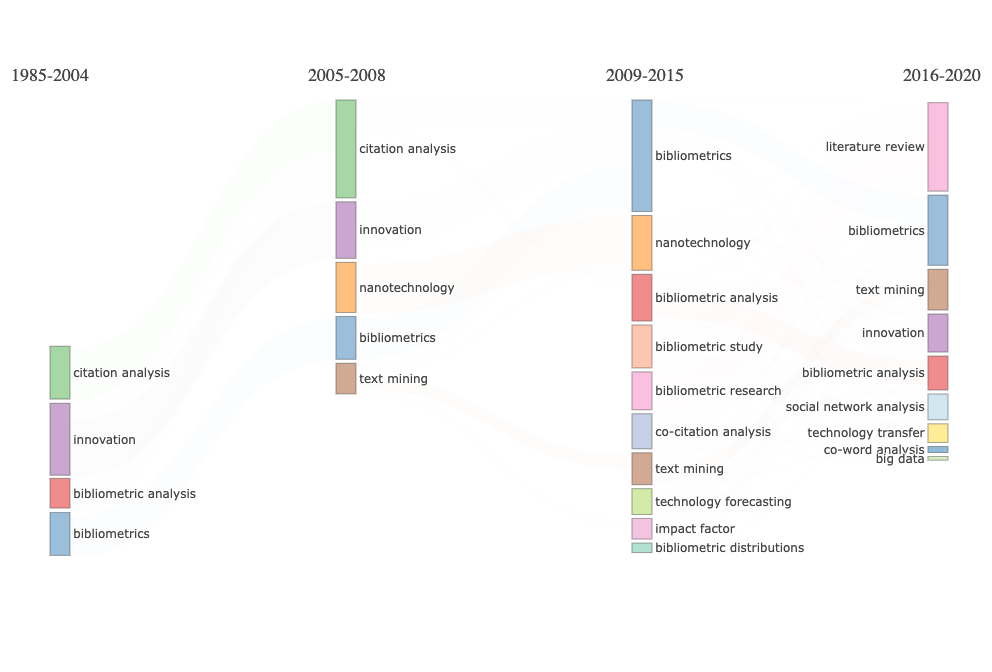
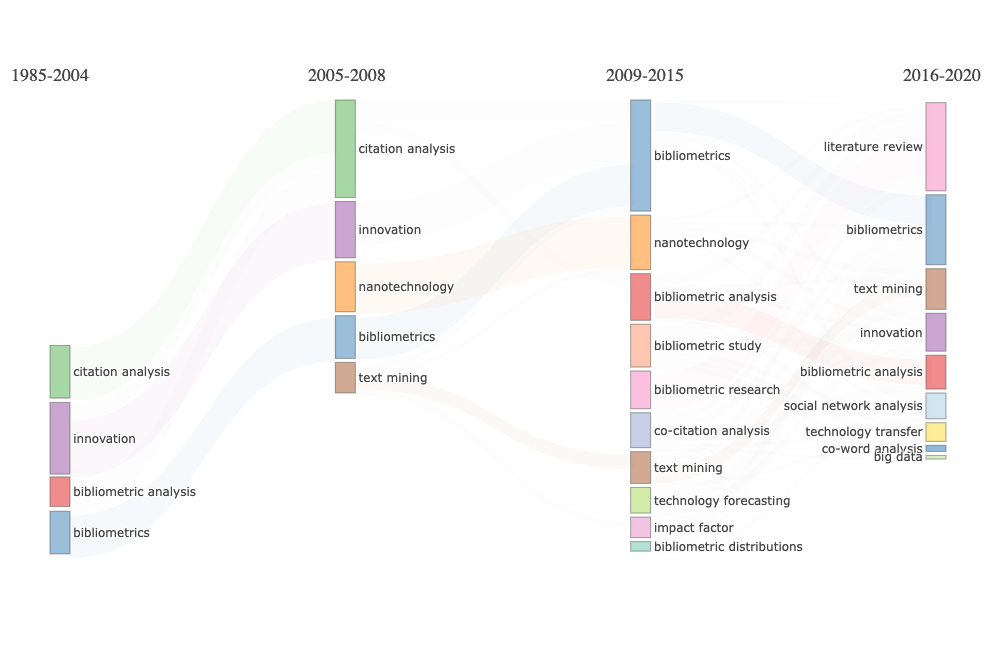
fix(authorBio): works from OpenAlex with a doi in primary_location
Since October 2026 OpenAlex also returns a `doi` inside the
primary_location of a work, and openalexR::oa_fetch() 3.1.1 (current
release, not fixed upstream) copies it next to the work's own `doi` when it
builds the tibble: every request for works failed with "Column name `doi`
must not be duplicated". authorBio() and get_authors_summary() stopped.

The internal oaFetch() fetches works as a list, drops the fields of
primary_location that repeat a field of the work, and converts the list
with openalexR::oa2df(), as oa_fetch() does; any other request is passed to
oa_fetch() unchanged. The downloads of convert2df() and Biblioshiny were not
affected (they parse the list themselves).

README.md is rendered in full again (it stopped at the authorBio()
example); the renumbered figure replaces README-unnamed-chunk-17-1.png.

diff --git a/NEWS.md b/NEWS.md
@@ -5,6 +5,7 @@
 - **`dominancePlot()` draws the authors' dominance ranking**: a new function that plots the output of `dominance()` as a quadrant scatter plot. Each author is placed by productivity (N. of articles) and Dominance Factor, with point size proportional to the multi-authored articles. The median productivity and DF = 0.5 split the authors into prolific leaders, leaders, prolific co-authors and co-authors. Authors that fall on the same point are drawn once, with their names stacked in one label; when two names would overlap, or a name would cover another bubble, only the author with the higher Dominance Factor is named. `dominance()` now also accepts the bibliographic data frame instead of a `biblioAnalysis()` result: it needs only the `AU` field, so on `management` it takes 0.01 s instead of the 2.1 s of `biblioAnalysis()`, and both inputs give `identical()` rankings. Biblioshiny has a new **Authors' Dominance** page in the Authors menu, with the plot (every name on hover), the table and the Info & References tab.
 
 ## Bug Fixes and Improvements
+- **`authorBio()` and `get_authors_summary()` work again with the current OpenAlex API**: since October 2026 OpenAlex also returns a `doi` inside the `primary_location` of a work, and `openalexR::oa_fetch()` (3.1.1, the current release) copies that field next to the work's own `doi` when it converts works to a tibble, so every request failed with *"Column name `doi` must not be duplicated"*. Works are now fetched as a list, the fields of `primary_location` that repeat a field of the work are dropped, and the list is converted by `openalexR::oa2df()` as `oa_fetch()` does; other requests are unchanged. The OpenAlex downloads of `convert2df()` and Biblioshiny were not affected: they read the list returned by OpenAlex with bibliometrix's own parser.
 - **`histPlot(label = "title")` no longer duplicates single-word titles** (#707): node labels split the title in two lines at `floor(length / 2)` words, so a one-word title was written twice (`"Alpha\nAlpha"`) and a missing one became `"NA\nNA"`. A one-word title now stays on one line and a missing or empty title is `"Not Available"`, as `label = "keywords"` and `"keywordsplus"` already did. The tooltips of the Historiograph in Biblioshiny had the same split and are fixed the same way. Labels of multi-word titles are unchanged. Reported and fixed by @GabrielBaiano.
 - **`couplingMap()` returns the modularity, and Biblioshiny shows it on the Coupling Map**: like `thematicMap()`, `couplingMap()` now returns `modularity`, the modularity (Q) of its community detection, also found in `net$modularity`. The Clusters table of the Coupling Map page shows it, as the co-occurrence, co-citation and collaboration networks, the Thematic Map and the Thematic Evolution already did.
 - **`bradford()` keeps a dominant source in Zone 1** (#703): when the core sources alone hold more than two thirds of the articles, the end of Zone 1 and the end of Zone 2 coincide, and the Zone 2 range `(zone1_end + 1):zone2_end` counted down, relabelling the core as Zone 2 and leaving Zone 1 empty. Zone 2 is now empty in that case, the Bradford multiplier is `NA` as for any empty zone, and the plot no longer draws the label of an empty zone on top of its neighbour. Zones of `management` and `scientometrics` compare `identical()` before and after. Reported by @GabrielBaiano.

diff --git a/README.md b/README.md
@@ -667,17 +667,17 @@ dplyr::glimpse(authorInfo)
 #> Columns: 26
 #> $ id                          <chr> "https://openalex.org/A5069892096"
 #> $ display_name                <chr> "Massimo Aria"
-#> $ display_name_alternatives   <list> <"Aria, M. Qasem", "Aria, Massimo", "M Aria", "M. Aria", "M. Qasem Aria", "MASSIMO…
+#> $ display_name_alternatives   <list> <"Aria M.", "Aria, Massimo", "M Aria", "M. Aria", "MASSIMO ARIA", "Massimo Aria">
 #> $ full_name                   <chr> "Massimo Aria"
-#> $ ids                         <list> <"https://openalex.org/A5069892096", "https://orcid.org/0000-0002-8517-9411">
+#> $ ids                         <list> <"https://openalex.org/A5069892096", "https://orcid.org/0000-0002-8517-9411", "htt…
 #> $ orcid                       <chr> "https://orcid.org/0000-0002-8517-9411"
-#> $ works_count                 <int> 237
-#> $ cited_by_count              <int> 20543
-#> $ counts_by_year              <list> [<data.frame[24 x 4]>]
-#> $ `2yr_mean_citedness`        <dbl> 3.77193
-#> $ h_index                     <int> 37
-#> $ i10_index                   <int> 99
-#> $ last_known_institutions     <list> [<data.frame[3 x 6]>]
+#> $ works_count                 <int> 241
+#> $ cited_by_count              <int> 21269
+#> $ counts_by_year              <list> [<data.frame[23 x 4]>]
+#> $ `2yr_mean_citedness`        <dbl> 3.984127
+#> $ h_index                     <int> 38
+#> $ i10_index                   <int> 102
+#> $ last_known_institutions     <list> [<data.frame[1 x 6]>]
 #> $ topics                      <list> [<tbl_df[20 x 5]>]
 #> $ works_api_url               <chr> "https://api.openalex.org/works?filter=author.id:A5069892096"
 #> $ author_position_in_paper    <dbl> 1
@@ -690,7 +690,7 @@ dplyr::glimpse(authorInfo)
 #> $ affiliation_raw             <chr> "Department of Economics and Statistics, Università degli Studi di Napoli Federico…
 #> $ source_doi                  <chr> "10.1016/j.joi.2017.08.007"
 #> $ source_title                <chr> "bibliometrix : An R-tool for comprehensive science mapping analysis"
-#> $ query_timestamp             <dttm> 2026-08-28 15:16:23
+#> $ query_timestamp             <dttm> 2026-10-12 13:35:04
 ```
 
 This function provides comprehensive author profiles including:
@@ -1048,7 +1048,7 @@ identify seminal works and breakthrough moments in a research field. The
 rpysResults <- rpys(M, sep = ";", timespan = NULL, graph = TRUE)
 ```
 
-<img src="man/figures/README-unnamed-chunk-17-1.png" alt="" width="100%" />
+<img src="man/figures/README-unnamed-chunk-18-1.png" alt="" width="100%" />
 
 ``` r
 
